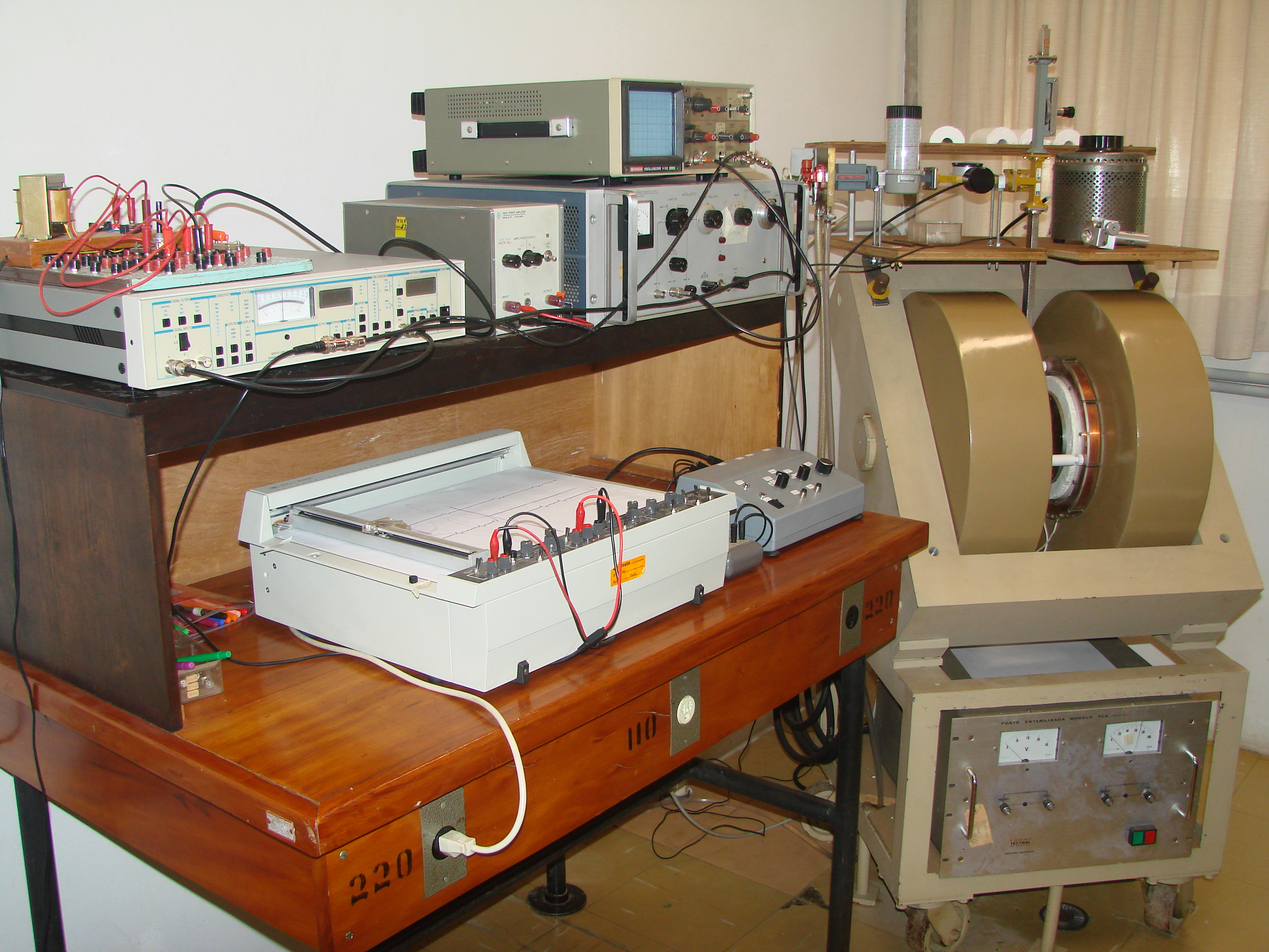
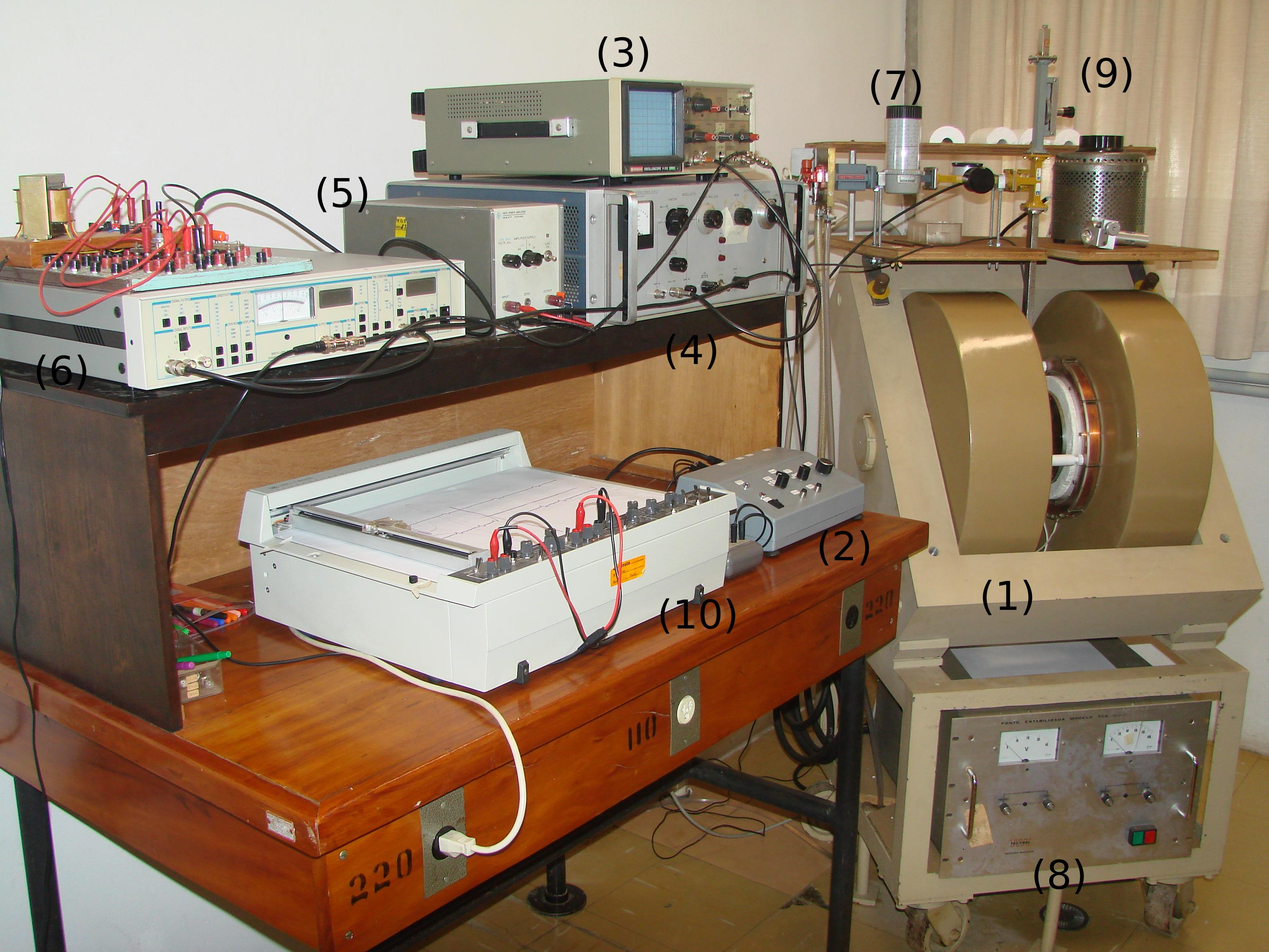
ultimas alterações feitas nas imagens e equipamentos. práticas escritas.

diff --git a/doc/praticas.rst b/doc/praticas.rst
@@ -8,18 +8,77 @@ Ligar o equipamento
 Ligue o equipamento e entenda cada parâmetro
 
 
-Espectro da amostra
--------------------
+Espectro da amostra DPPH
+------------------------
 
-Troque a amostra *DPPH* pela amostra de *MgO + Cr + Mn*, refaça os ajustes de
-acoplamento da cavidade e reflexão de microondas e obtenha o espectro dessa
-amostra.
+Nesta prática vamos utilizar uma amostra que é comumente empregada para
+procedimentos de calibração dos espectrômetros de RPE. Trata-se do DPPH,
+ou, diph enyl picryl hydrazyl . Na forma sólida (como a que vamos usar)
+o espectro de EPR do DPPH consiste de uma única linha muito intensa,
+relativamente estreita (largura de aproximadamente 2 G), centralizada em
+g = 2.0038 , e ligeiramente assimétrica. Colocar o tubo contendo DPPH na
+cavidade. A amostra é muito pequena (fração de milímetros) e está colocada
+no fundo do tubo, enrolada em fita teflon (por isso ela é branca e não
+negra, como seria a cor natural do DPPH). Posicione cuidadosamente a amostra
+no centro da cavidade. Ajustar o espectrômetro e medir o sinal utilizando
+varredura de 50G. Meça o valor do campo magnético no centro da linha com uma
+sonda Hall e a freqüência da microonda com o frequencímetro e, a partir
+destes dados, calcule o fator g do DPPH. Compare com o valor tabelado : g =  2.0038.
 
+Análise do efeito conjunto da constante de tempo e velocidade de varredura
+--------------------------------------------------------------------------
+
+Varie a constante de tempo entre os valores de 10ms a 10s, registrando os
+sinais com varreduras de 0.5 min, 1 min e 3 min. Explique os resultados
+com base nas informações deste texto e das referências 3 e 4.
+
+Lock-in no modo “2f”
+--------------------
+
+Novamente meça o sinal do DPPH com o programa EPR-LEF.py com o lock-in em modo
+"f" (primeira derivada) com a amplitude de modulação ótima,
+:numref:`fig_lockin`. Passe o lock-in para o modo “2f” e registre o sinal
+novamente com o EPR-LEF.py . Para que os dois sinais fiquem com amplitudes
+similares será necessário que a sensibilidade (vertical) do sinal "2f" tenha
+que ser maior.Para entender melhor o que significa o modo "2f", estude o Apêndice1.
+
+Para esta amostra de DPPH, qual deve ser a melhor configuração dos
+parâmetros amplitude da modulação, constante de tempo, amplitude de varredura
+e tempo da varredura para que o espectro represente corretamente a derivada do
+sinal de absorção?
+
+:math:`MgO + Cr3^{++} Mn2^{+}`
+------------------------------
+
+Esta é uma amostra de um cristal MgO dopado com :math:`Cr^{3+}` e :math:`Mn^{2+}`.
+Apesar de ser uma amostra cristalina, seu espectro é isotrópico e consiste de
+duas componentes: um sexteto resultante da interação hiperfina com o núcleo
+do Manganês, I = 5/2, e uma linha intensa (com transições proibidas laterais)
+proveniente do Cromo. O fator g da linha intensa é 1.9797. Esta amostra também
+é muito pequena e está colocada no fundo do tubo. Posicione cuidadosamente a
+amostra no centroda cavidade.
+
+Devido ao fato de que a linha central é intensa e relativamente estreita e ter
+um fator g menor que 2, esta amostra é também muitas vezes utilizadas como
+marcador para finalidades de calibração. Em adição a esta linha central mais
+intensa, você deverá observar também seis linhas menos intensas, separadas por
+cerca de 80-100 Gauss devido ao :math:`Mn^{2+}`. Como o espectro é largo, faça
+a medida utilizando uma varredura lenta de 1000 Gauss.
 
 Duas amostras
 -------------
 
-O equipamento posui duas aberturas para amostra, uma para ser colocada por cima
-e outra por baixo. Mantenha a amostra anterior na cavidade e insira a *DPPH*
-por baixo, sem que ambas se toquem. Refaça os ajustes de acoplamento da
-cavidade e reflexão de microondas e obtenha o espectro.
+Realizar a calibração das varreduras de 100 G, 500 G e 1000 G. Para isto,
+deve-se montar as duas amostras, DPPH e MgO simultaneamente na cavidade,
+ver figura :numref:`fig_amostra_centro`. A idéia é registrar os dois sinais
+simultaneamente, em uma única varredura. Como o sinal do DPPH é mais intenso,
+esta amostra deve ser colocadapor baixo, um pouco abaixo do centro da cavidade.
+
+Para isso, não toque na amostra de MgO já instalada e medida; e introduza o
+tubo com a amostra de DPPH na cavidadepor baixo, com cuidado, até que ele toque
+o outro tubo e, depois, volte um pouquinho. A amostra de DPPH deve ficar a apenas
+alguns milímetros abaixo da de MgO. Nesta situação, os dois espectros irão ser
+registrados com intensidades semelhantes. Como os fatores g das duas amostras são
+conhecidos pode-se determinar, com precisão, a distância entre as duas linhas e
+a partir daí fazer a calibração do papel, emG/cm,nastrêsescalas de varredura:
+100 G, 500 G e 1000 G.

diff --git a/doc/equipamento.rst b/doc/equipamento.rst
@@ -26,7 +26,12 @@ Todo o equipamento utilizado está registrado a seguir.
    :scale: 80%
    :align: center
 
-   Foto da sala.
+   Foto da sala. (1) EPR, (2) ontrolador de varredura, (3) osciloscópio analógico,
+   (4) fonte do *klystron*, (5) amplificador de audio, (6) *lock-in*, (7)
+   frequencímetro, (8) fonte do EPR, (9) refletor desafador de miro-ondas e (10)
+   equipamento utilizado para desenhar o sinal do EPR esse aparelho será
+   substituído por um sistema de aquisição de dados utilizando um arduino e um
+   microcomputador.
 
 .. _fig_diagrama_blocos_trambolho:
 
@@ -137,7 +142,8 @@ Todo o equipamento utilizado está registrado a seguir.
    :scale: 80%
    :align: center
 
-   Arduino com módulos *ADC* e *RS-232*.
+   Arduino(1) com módulos *ADC* (3), *RS-232* (2). (4) conexão entre arduino e
+   computador.
 
 Instruções
 ----------
@@ -198,7 +204,9 @@ Ligar o espectrômetro
               :width: 75%
               :align: center
 
-              Posição correta da amostra na cavidade.
+              Posição correta da amostra na cavidade. Note que existem 2 entradas
+              para colocar amostras (1) e (2). Isso será importante mais para
+              os experimentos.
 
         #. Ligue a fonte de corrente do eletroíma,
            :numref:`fig_fonte_eletroima`, e coloque seus controles de voltagem

diff --git a/doc/introducao.rst b/doc/introducao.rst
@@ -33,6 +33,17 @@ Em 1945, foi feita a primeira observação de um pico de ressonância
 paramagnetica eletronica (EPR), quando Zavoisky detectou a linha de absorção
 de radiofrequência de uma amostra de CuCl2.2H2O.
 
+.. _fig_ZeemanZavoisky:
+.. figure:: img/Zemman-Zavoisky.png
+   :scale: 80%
+   :align: center
+
+   A esquerda vamos Pieter Zeeman, descobriu a separação de linhas espectrais
+   devido a campos magnéticos o que ficou comnhecido como efeito Zeeman.
+   A direita temos Yevgeny Konstantinovich Zavoisky, ele foi o primeiro a medir
+   efeito de ressonância paramagnética eletrônica.
+
+
 referências:
 	(1) M. J. N. Junk, Assessing the Functional Structure of
  	Molecular Transporters by EPR Spectroscopy, Springer Theses,
